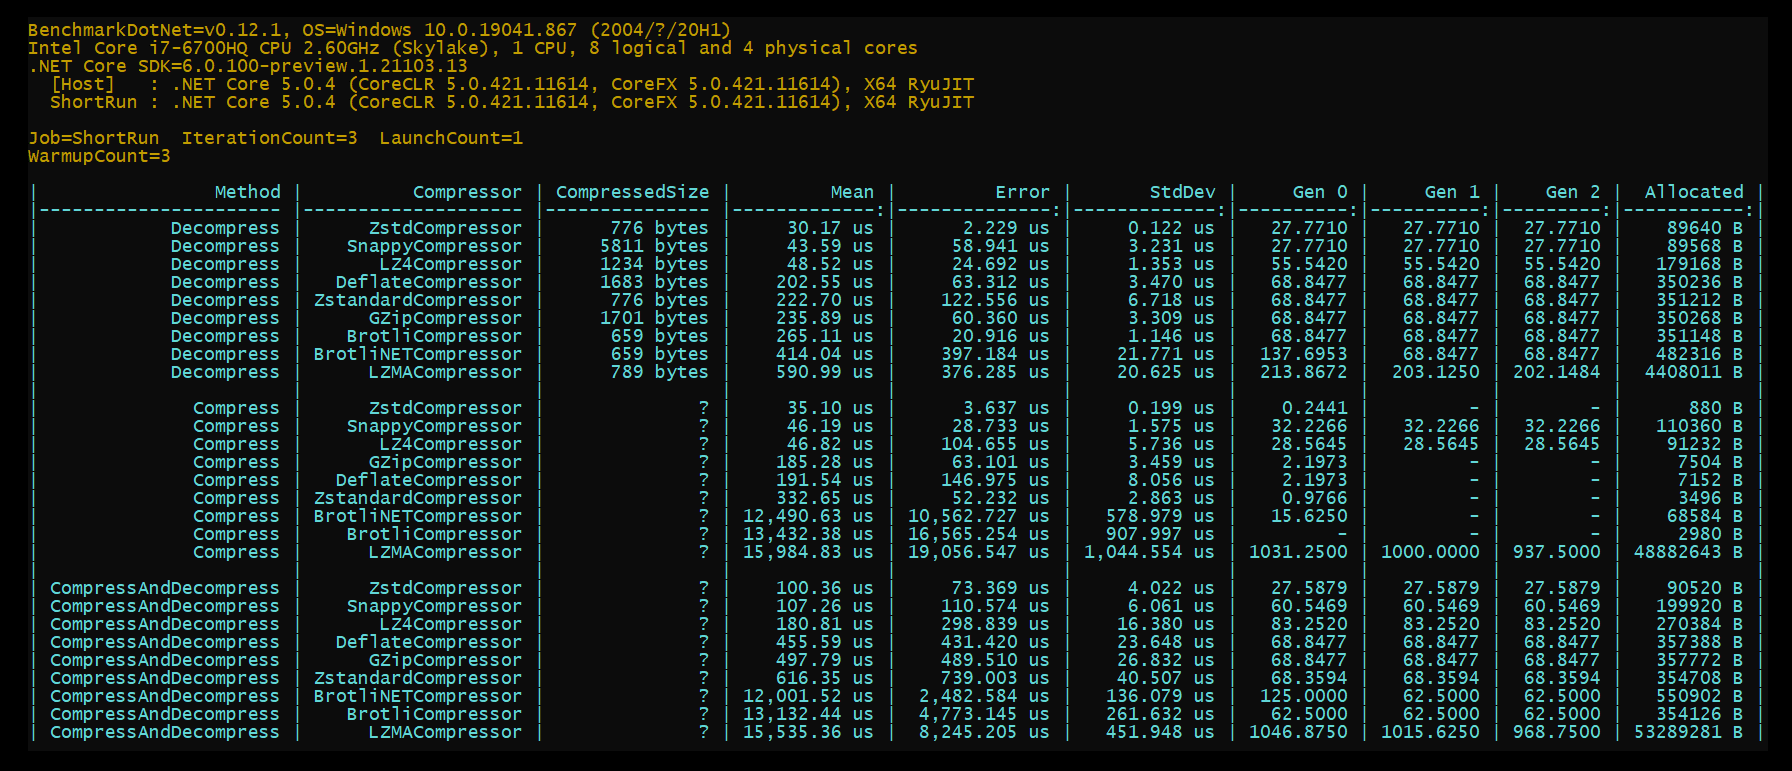
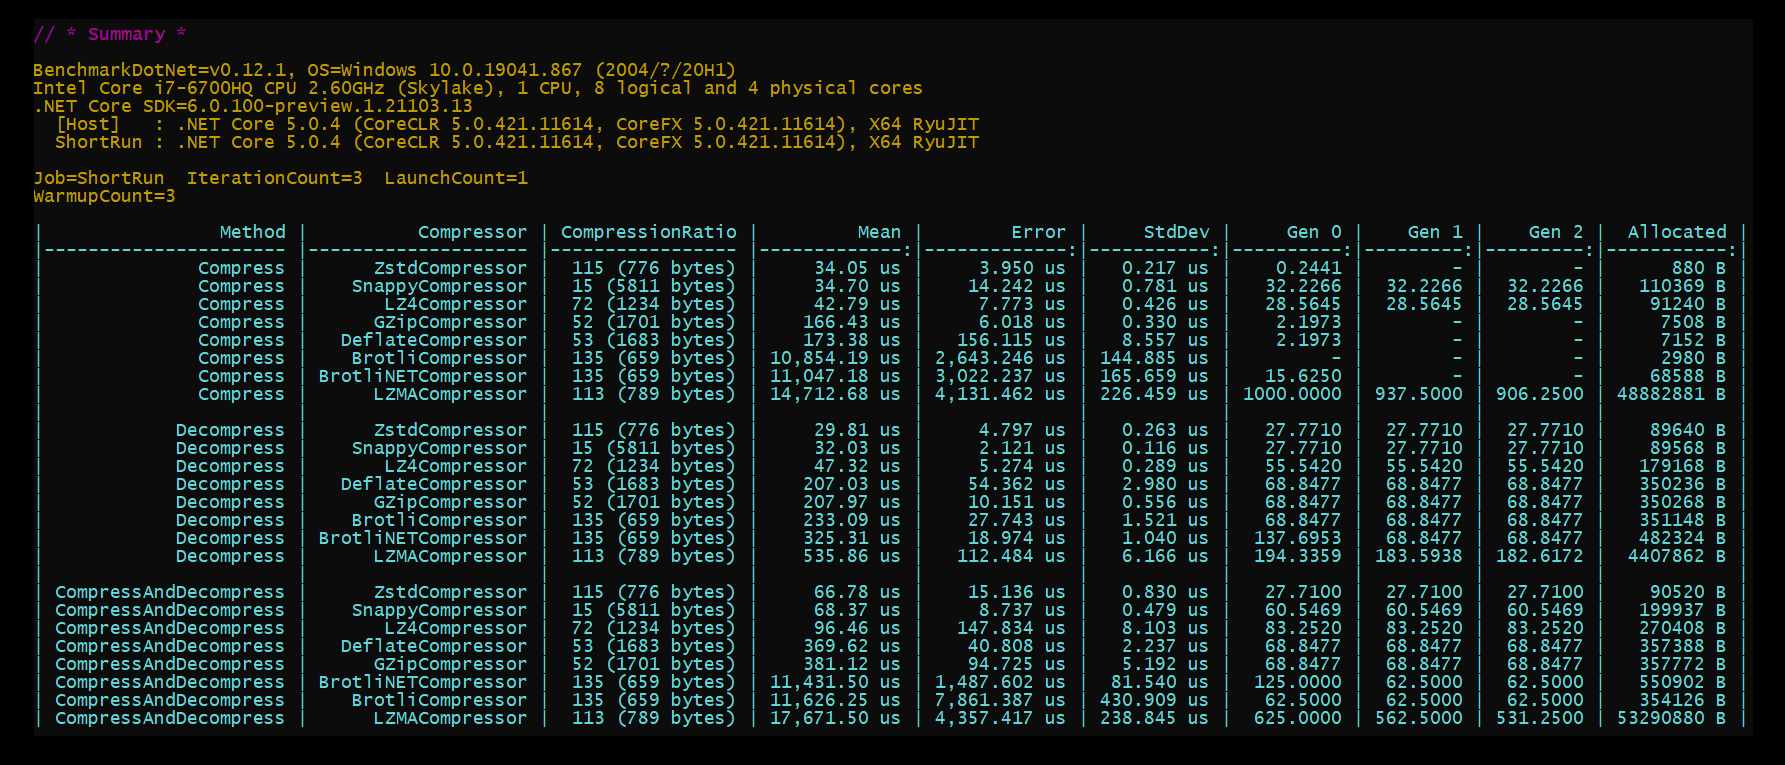
Update Benchmark and README.md

Changed region(s): [[0.0, 0.0301, 0.986, 0.9621]]

diff --git a/test/EasyCompressor.Benchmark/Benchmarks/BaseBenchmark.cs b/test/EasyCompressor.Benchmark/Benchmarks/BaseBenchmark.cs
@@ -11,7 +11,7 @@ namespace EasySerializer.Benchmark
     [ShortRunJob]
     //[SimpleJob(RunStrategy.Throughput)]
     [MemoryDiagnoser]
-    [KeepBenchmarkFiles(false)]
+    [KeepBenchmarkFiles(true)]
     [GroupBenchmarksBy(BenchmarkLogicalGroupRule.ByMethod)]
     [Orderer(SummaryOrderPolicy.FastestToSlowest, MethodOrderPolicy.Declared)]
     public class BaseBenchmark
@@ -20,40 +20,24 @@ namespace EasySerializer.Benchmark
         {
             var json = File.ReadAllText("Data\\spotifyAlbum.json");
             var spotifyAlbums = Serializer.FromJson<SpotifyAlbumArray>(json);
-            ObjectBytes = Serializer.SerializeMessagePack(spotifyAlbums);
+            OriginalBytes = Serializer.SerializeMessagePack(spotifyAlbums);
         }
 
-        protected byte[] ObjectBytes;
+        protected byte[] OriginalBytes;
 
-        public IEnumerable<CompressorArg> GetCompressors
+        public IEnumerable<object[]> GetArguments
         {
             get
             {
-                yield return new CompressorArg(new GZipCompressor());
-                yield return new CompressorArg(new DeflateCompressor());
-                yield return new CompressorArg(new BrotliCompressor());
-                yield return new CompressorArg(new BrotliNETCompressor());
-                yield return new CompressorArg(new LZ4Compressor());
-                yield return new CompressorArg(new LZMACompressor());
-                yield return new CompressorArg(new SnappyCompressor());
-                yield return new CompressorArg(new ZstandardCompressor());
-                yield return new CompressorArg(new ZstdCompressor());
-            }
-        }
-
-        public IEnumerable<object[]> GetDeompressors
-        {
-            get
-            {
-                yield return new object[] { new CompressorArg(new GZipCompressor()), new CompressedBytesArg(new GZipCompressor(), ObjectBytes) };
-                yield return new object[] { new CompressorArg(new DeflateCompressor()), new CompressedBytesArg(new DeflateCompressor(), ObjectBytes) };
-                yield return new object[] { new CompressorArg(new BrotliCompressor()), new CompressedBytesArg(new BrotliCompressor(), ObjectBytes) };
-                yield return new object[] { new CompressorArg(new BrotliNETCompressor()), new CompressedBytesArg(new BrotliNETCompressor(), ObjectBytes) };
-                yield return new object[] { new CompressorArg(new LZ4Compressor()), new CompressedBytesArg(new LZ4Compressor(), ObjectBytes) };
-                yield return new object[] { new CompressorArg(new LZMACompressor()), new CompressedBytesArg(new LZMACompressor(), ObjectBytes) };
-                yield return new object[] { new CompressorArg(new SnappyCompressor()), new CompressedBytesArg(new SnappyCompressor(), ObjectBytes) };
-                yield return new object[] { new CompressorArg(new ZstandardCompressor()), new CompressedBytesArg(new ZstandardCompressor(), ObjectBytes) };
-                yield return new object[] { new CompressorArg(new ZstdCompressor()), new CompressedBytesArg(new ZstdCompressor(), ObjectBytes) };
+                yield return new object[] { new CompressorArg(new GZipCompressor()), new CompressedArg(new GZipCompressor(), OriginalBytes) };
+                yield return new object[] { new CompressorArg(new DeflateCompressor()), new CompressedArg(new DeflateCompressor(), OriginalBytes) };
+                yield return new object[] { new CompressorArg(new BrotliCompressor()), new CompressedArg(new BrotliCompressor(), OriginalBytes) };
+                yield return new object[] { new CompressorArg(new BrotliNETCompressor()), new CompressedArg(new BrotliNETCompressor(), OriginalBytes) };
+                yield return new object[] { new CompressorArg(new LZ4Compressor()), new CompressedArg(new LZ4Compressor(), OriginalBytes) };
+                yield return new object[] { new CompressorArg(new LZMACompressor()), new CompressedArg(new LZMACompressor(), OriginalBytes) };
+                yield return new object[] { new CompressorArg(new SnappyCompressor()), new CompressedArg(new SnappyCompressor(), OriginalBytes) };
+                //yield return new object[] { new CompressorArg(new ZstandardCompressor()), new CompressedArg(new ZstandardCompressor(), OriginalBytes) };
+                yield return new object[] { new CompressorArg(new ZstdCompressor()), new CompressedArg(new ZstdCompressor(), OriginalBytes) };
             }
         }
 
@@ -67,14 +51,20 @@ namespace EasySerializer.Benchmark
             public override string ToString() => Compressor.GetType().Name;
         }
 
-        public class CompressedBytesArg
+        public class CompressedArg
         {
+            private readonly int compressedRatio;
+            private readonly decimal savingPercent;
             public byte[] CompressedBytes { get; }
-            public CompressedBytesArg(ICompressor compressor, byte[] bytes)
+
+            public CompressedArg(ICompressor compressor, byte[] originalBytes)
             {
-                CompressedBytes = compressor.Compress(bytes);
+                CompressedBytes = compressor.Compress(originalBytes);
+                compressedRatio = originalBytes.Length / CompressedBytes.Length;
+                savingPercent = (originalBytes.Length - CompressedBytes.Length) * 100 / (decimal)originalBytes.Length;
             }
-            public override string ToString() => CompressedBytes.Length + " bytes";
+
+            public override string ToString() => string.Format("{0} ({1} bytes)", compressedRatio, CompressedBytes.Length);
         }
     }
 }

diff --git a/test/EasyCompressor.Benchmark/Benchmarks/BinaryBenchmark.cs b/test/EasyCompressor.Benchmark/Benchmarks/BinaryBenchmark.cs
@@ -5,24 +5,24 @@ namespace EasySerializer.Benchmark
     public class BinaryBenchmark : BaseBenchmark
     {
         [Benchmark]
-        [ArgumentsSource(nameof(GetCompressors))]
-        public void Compress(CompressorArg Compressor)
+        [ArgumentsSource(nameof(GetArguments))]
+        public void Compress(CompressorArg Compressor, CompressedArg CompressionRatio)
         {
-            Compressor.Compressor.Compress(ObjectBytes);
+            Compressor.Compressor.Compress(OriginalBytes);
         }
 
         [Benchmark]
-        [ArgumentsSource(nameof(GetDeompressors))]
-        public void Decompress(CompressorArg Compressor, CompressedBytesArg CompressedSize)
+        [ArgumentsSource(nameof(GetArguments))]
+        public void Decompress(CompressorArg Compressor, CompressedArg CompressionRatio)
         {
-            Compressor.Compressor.Decompress(CompressedSize.CompressedBytes);
+            Compressor.Compressor.Decompress(CompressionRatio.CompressedBytes);
         }
 
         [Benchmark]
-        [ArgumentsSource(nameof(GetCompressors))]
-        public void CompressAndDecompress(CompressorArg Compressor)
+        [ArgumentsSource(nameof(GetArguments))]
+        public void CompressAndDecompress(CompressorArg Compressor, CompressedArg CompressionRatio)
         {
-            var compressedBytes = Compressor.Compressor.Compress(ObjectBytes);
+            var compressedBytes = Compressor.Compressor.Compress(OriginalBytes);
             Compressor.Compressor.Decompress(compressedBytes);
         }
     }

diff --git a/test/EasyCompressor.Benchmark/Benchmarks/StreamAsyncBenchmark.cs b/test/EasyCompressor.Benchmark/Benchmarks/StreamAsyncBenchmark.cs
@@ -7,30 +7,30 @@ namespace EasySerializer.Benchmark
     public class StreamAsyncBenchmark : BaseBenchmark
     {
         [Benchmark]
-        [ArgumentsSource(nameof(GetCompressors))]
-        public Task Compress(CompressorArg Compressor)
+        [ArgumentsSource(nameof(GetArguments))]
+        public Task Compress(CompressorArg Compressor, CompressedArg CompressionRatio)
         {
-            using var inputStream = new MemoryStream(ObjectBytes);
+            using var inputStream = new MemoryStream(OriginalBytes);
             using var outputStream = new MemoryStream();
 
             return Compressor.Compressor.CompressAsync(inputStream, outputStream);
         }
 
         [Benchmark]
-        [ArgumentsSource(nameof(GetDeompressors))]
-        public Task Decompress(CompressorArg Compressor, CompressedBytesArg CompressedSize)
+        [ArgumentsSource(nameof(GetArguments))]
+        public Task Decompress(CompressorArg Compressor, CompressedArg CompressionRatio)
         {
-            using var inputStream = new MemoryStream(CompressedSize.CompressedBytes);
+            using var inputStream = new MemoryStream(CompressionRatio.CompressedBytes);
             using var outputStream = new MemoryStream();
 
             return Compressor.Compressor.DecompressAsync(inputStream, outputStream);
         }
 
         [Benchmark]
-        [ArgumentsSource(nameof(GetCompressors))]
-        public async Task CompressAndDecompress(CompressorArg Compressor)
+        [ArgumentsSource(nameof(GetArguments))]
+        public async Task CompressAndDecompress(CompressorArg Compressor, CompressedArg CompressionRatio)
         {
-            using var inputStream = new MemoryStream(ObjectBytes);
+            using var inputStream = new MemoryStream(OriginalBytes);
             using var outputStream = new MemoryStream();
 
             await Compressor.Compressor.CompressAsync(inputStream, outputStream);

diff --git a/test/EasyCompressor.Benchmark/Benchmarks/StreamBenchmark.cs b/test/EasyCompressor.Benchmark/Benchmarks/StreamBenchmark.cs
@@ -6,30 +6,30 @@ namespace EasySerializer.Benchmark
     public class StreamBenchmark : BaseBenchmark
     {
         [Benchmark]
-        [ArgumentsSource(nameof(GetCompressors))]
-        public void Compress(CompressorArg Compressor)
+        [ArgumentsSource(nameof(GetArguments))]
+        public void Compress(CompressorArg Compressor, CompressedArg CompressionRatio)
         {
-            using var inputStream = new MemoryStream(ObjectBytes);
+            using var inputStream = new MemoryStream(OriginalBytes);
             using var outputStream = new MemoryStream();
 
             Compressor.Compressor.Compress(inputStream, outputStream);
         }
 
         [Benchmark]
-        [ArgumentsSource(nameof(GetDeompressors))]
-        public void Decompress(CompressorArg Compressor, CompressedBytesArg CompressedSize)
+        [ArgumentsSource(nameof(GetArguments))]
+        public void Decompress(CompressorArg Compressor, CompressedArg CompressionRatio)
         {
-            using var inputStream = new MemoryStream(CompressedSize.CompressedBytes);
+            using var inputStream = new MemoryStream(CompressionRatio.CompressedBytes);
             using var outputStream = new MemoryStream();
 
             Compressor.Compressor.Decompress(inputStream, outputStream);
         }
 
         [Benchmark]
-        [ArgumentsSource(nameof(GetCompressors))]
-        public void CompressAndDecompress(CompressorArg Compressor)
+        [ArgumentsSource(nameof(GetArguments))]
+        public void CompressAndDecompress(CompressorArg Compressor, CompressedArg CompressionRatio)
         {
-            using var inputStream = new MemoryStream(ObjectBytes);
+            using var inputStream = new MemoryStream(OriginalBytes);
             using var outputStream = new MemoryStream();
 
             Compressor.Compressor.Compress(inputStream, outputStream);

diff --git a/test/EasyCompressor.Benchmark/Program.cs b/test/EasyCompressor.Benchmark/Program.cs
@@ -1,4 +1,6 @@
-using BenchmarkDotNet.Running;
+using BenchmarkDotNet.Configs;
+using BenchmarkDotNet.Running;
+using System.IO;
 
 namespace EasySerializer.Benchmark
 {

diff --git a/README.md b/README.md
@@ -74,6 +74,35 @@ var uncompressedBytes = compressor.Decompress(compressedBytes);
 
 ## Benchmark
 
+### Tips and Results
+
+**Origial data size is :**
+- **89,535 bytes (about ≈ 90 KB)** (binary serialized output of a json file by messagepack).
+
+**Compressed data size (for examle) :**
+- **776 bytes for Zstd** (115x compression ratio) that results in **99.13% memory and bandwidth saving.**
+- **1,234 bytes for LZ4** (72x compression ratio) that results in **98.62% memory and bandwidth saving.**
+
+**Maximum Compression :**
+- Brotli
+- Zstd
+- LZMA
+- LZ4
+
+**Fastest Speed :**
+- Zstd
+- Snappy
+- LZ4
+
+**Most Efficient :**
+- Zstd (*windows only package*)
+- LZ4 (*cross-platform package*)
+
+**Moderated :**
+- GZip
+- Deflate
+
+Compression Ratio : higher is better
 ![Benchmark](Benchmark.png)
 
 ## Contributing